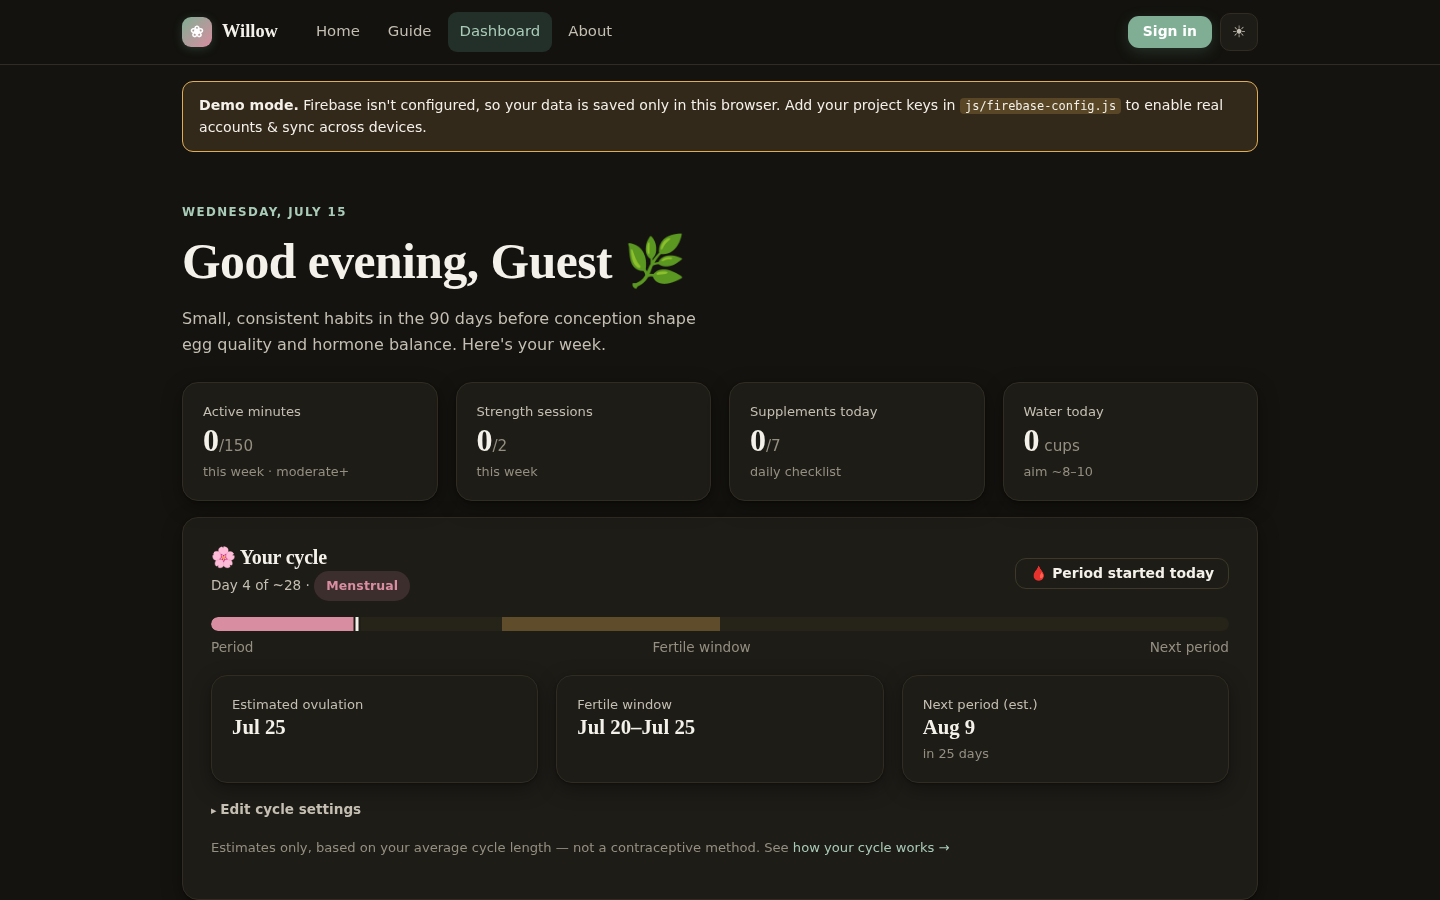
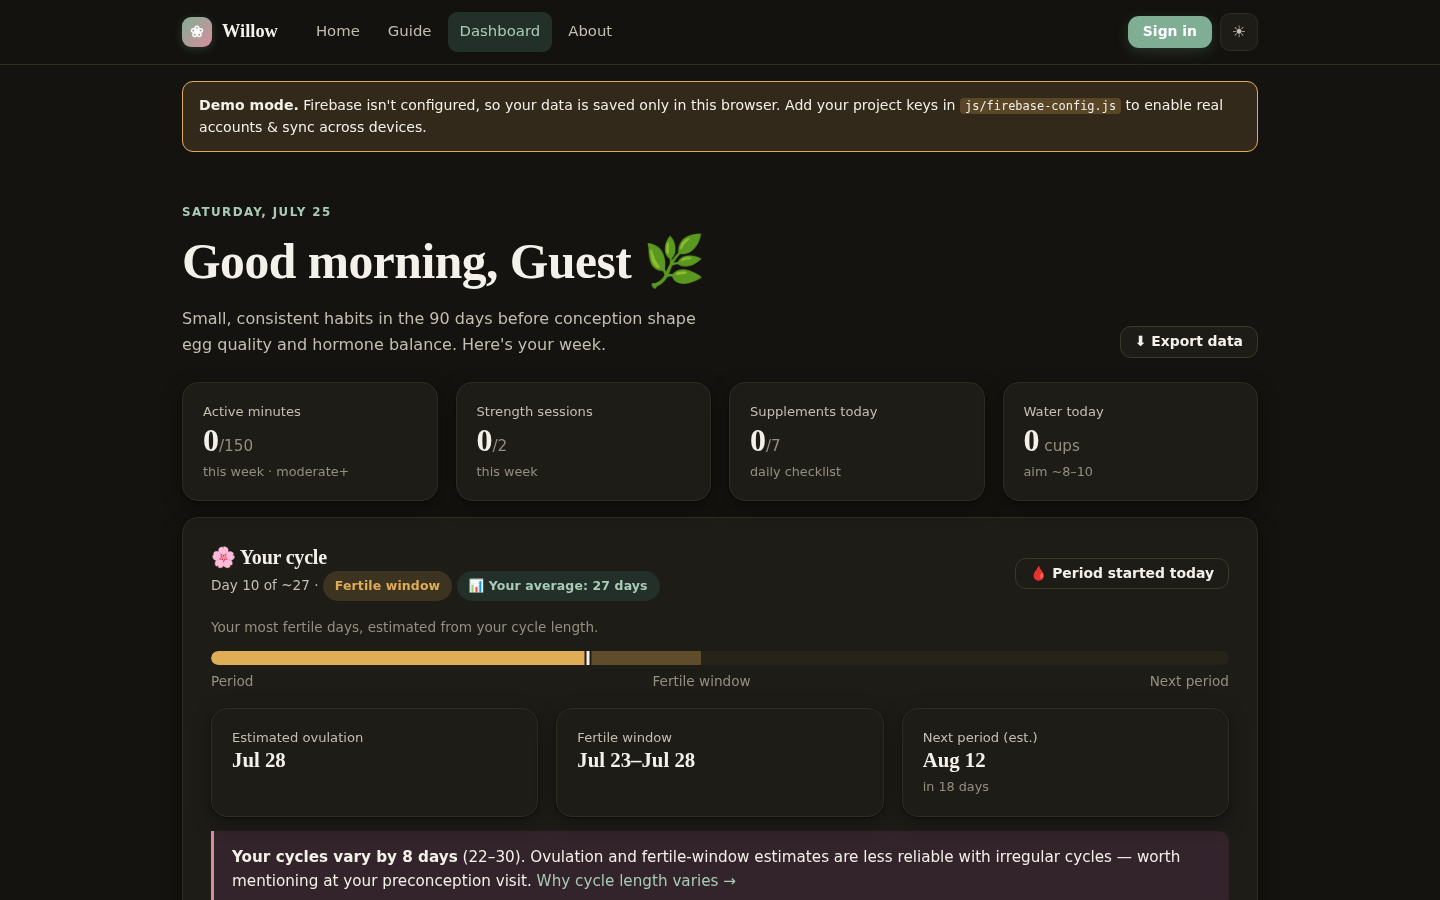
Refresh screenshots for cycle history, search, and export
Dashboard shots now show the observed-average badge, irregular-cycle
notice, save status, and export control. Adds a guide-search screenshot
and pairs it with dark mode in the README.

diff --git a/README.md b/README.md
@@ -53,9 +53,22 @@ deployed on GitHub Pages, using Firebase for authentication and per-user data.
 </tr>
 </table>
 
-<div align="center">
-<img src="assets/screenshots/dashboard-dark.png" alt="Dashboard in dark mode" width="70%">
-</div>
+<table>
+<tr>
+<td width="50%">
+
+**Instant search** — indexed from the rendered guide
+<img src="assets/screenshots/guide-search.png" alt="Guide search showing highlighted matches for choline">
+
+</td>
+<td width="50%">
+
+**Dark mode** — a selected palette, not an inversion
+<img src="assets/screenshots/dashboard-dark.png" alt="Dashboard in dark mode">
+
+</td>
+</tr>
+</table>
 
 ## Features
 
